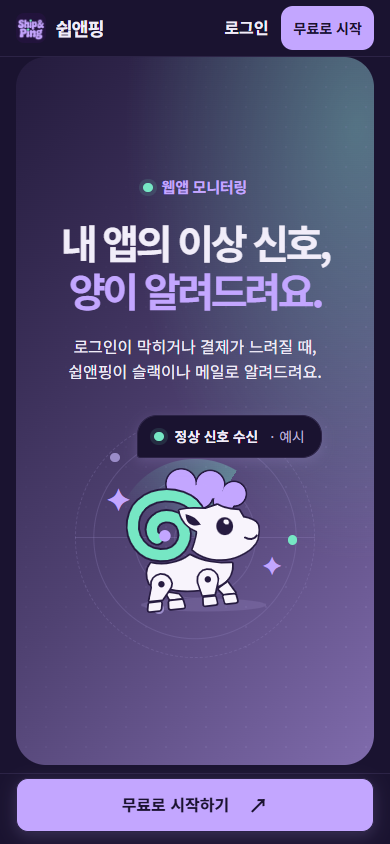
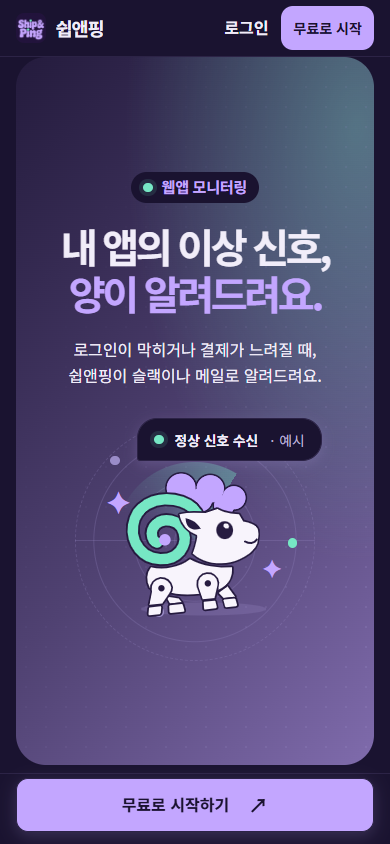
fix: T43 알림 예시 연결과 소개 페이지 가독성 개선

diff --git a/web/src/Landing.tsx b/web/src/Landing.tsx
@@ -15,6 +15,11 @@ const questions = [
 ];
 const signals = ["로그인에서 실패가 늘었어요", "결제가 느려졌어요", "업데이트 후 해결됐어요"];
 const channels = ["슬랙", "이메일"] as const;
+const paymentAlert = {
+  title: "결제가 느려졌어요",
+  metric: "평소 1.1초 → 최근 30분 3.4초",
+  sample: "결제 24건",
+};
 
 function StartLink({ className = "" }: { className?: string }) {
   return <Link to="/login" className={"lp-start " + className}>무료로 시작하기 <span aria-hidden="true">↗</span></Link>;
@@ -62,9 +67,13 @@ function Alerts() {
         aria-labelledby={"alert-tab-" + i} hidden={selected !== i} tabIndex={0} className="lp-message">
         <div className="lp-envelope">{i === 0 ? "# 모임모아-알림" : "받은 메일함"}</div>
         <div className="lp-sender"><Sheep/><span><strong>쉽앤핑</strong><small>모임모아 · 오후 6:00</small></span></div>
-        <div className="lp-excerpt"><h3>{i === 0 ? "결제가 느려졌어요" : "[쉽앤핑] 모임모아 · 결제가 느려졌어요"}</h3>
-          <p>평소 1.1초 → 최근 30분 3.4초</p><small>결제 24건을 살펴봤어요.</small></div>
-        <a href="#app-preview">쉽앤핑에서 보기 <span aria-hidden="true">↗</span></a>
+        <div className="lp-excerpt"><h3>{i === 1 && "[쉽앤핑] 모임모아 · "}{paymentAlert.title}</h3>
+          <p>{paymentAlert.metric}</p><small>{paymentAlert.sample}을 살펴봤어요.</small></div>
+        <details className="lp-alert-detail">
+          <summary>쉽앤핑에서 보기</summary>
+          <Hero title="모임모아 · 결제 문제 상세" mood="worried" showSheep={false}
+            badge={<StatusBadge state="open"/>} detail={paymentAlert.sample + " · " + paymentAlert.metric}/>
+        </details>
       </div>)}
     </div>
   </section>;

diff --git a/web/src/styles/landing.css b/web/src/styles/landing.css
@@ -77,6 +77,11 @@
   background: var(--sp-ok-ink);
   box-shadow: 0 0 0 4px var(--sp-ok-soft);
 }
+.lp .lp-hero .lp-kicker {
+  background: var(--sp-surface);
+  border-radius: var(--sp-radius-pill);
+  padding: .2rem .75rem;
+}
 .lp .lp-title {
   font-size: clamp(3rem, 5.55vw, 5rem);
   line-height: 1.18;
@@ -166,13 +171,15 @@
 .lp-sender small { display: block; }
 .lp-excerpt { border-left: 3px solid var(--sp-bad); padding-left: 1rem; }
 .lp-excerpt h3 { margin-bottom: .5rem; }
-.lp-message a { display: inline-flex; align-items: center; gap: .5rem; min-height: 44px; margin-top: .6rem; color: var(--sp-focus); font-weight: 700; }
+.lp-alert-detail { margin-top: .6rem; }
+.lp-alert-detail summary { width: fit-content; min-height: 44px; align-content: center; cursor: pointer; color: var(--sp-focus); font-weight: 700; }
 .lp-setup ol { padding: 0; margin: 2.5rem 0 0; display: grid; grid-template-columns: repeat(3, 1fr); gap: 1rem; list-style: none; }
 .lp-setup li { padding: 1.6rem; background: var(--sp-surface-2); border-radius: 20px; }
 .lp-setup li span { color: var(--sp-focus); font-weight: 800; font-variant-numeric: tabular-nums; }
 .lp-setup h3 { margin: 1.5rem 0 .5rem; font-size: 1.3rem; }
 .lp-setup li p, .lp-faq details p { color: var(--sp-ink-2); }
 .lp .answers { align-items: start; }
+.lp .answers .section-heading { display: grid; gap: .65rem; }
 .lp-faq details { border-bottom: 1px solid var(--sp-line); }
 .lp-faq summary { display: flex; justify-content: space-between; gap: 1rem; padding-block: 1.15rem; font-weight: 700; cursor: pointer; list-style: none; }
 .lp-faq summary::-webkit-details-marker { display: none; }

diff --git a/web/src/Landing.test.tsx b/web/src/Landing.test.tsx
@@ -35,9 +35,23 @@ it("알림 탭을 클릭하거나 방향키로 선택하면 초점과 패널이 
   }
 });
 
+it.each(["슬랙", "이메일"])("%s 알림에서 같은 결제 지연의 상세를 연다", channel => {
+  visit();
+  fireEvent.click(screen.getByRole("tab", {name:channel}));
+  const panel = within(screen.getByRole("tabpanel", {name:channel}));
+  expect(panel.getByRole("heading", {name:/결제가 느려졌어요/})).toBeTruthy();
+  const action = panel.getByText("쉽앤핑에서 보기");
+  fireEvent.click(action);
+  const detail = action.closest("details");
+  expect(detail?.open).toBe(true);
+  const content = within(detail!);
+  expect(content.getByRole("heading", {name:"모임모아 · 결제 문제 상세"})).toBeTruthy();
+  expect(content.getByText("결제 24건 · 평소 1.1초 → 최근 30분 3.4초")).toBeTruthy();
+});
+
 it("다섯 질문의 답을 각각 열고 다시 닫을 수 있다", () => {
   const {container} = visit();
-  const disclosures = container.querySelectorAll("details");
+  const disclosures = container.querySelectorAll<HTMLDetailsElement>(".lp-faq details");
   expect(disclosures).toHaveLength(5);
   for (const details of disclosures) {
     const summary = details.querySelector("summary")!;

diff --git a/docs/design/qa/landing-2026-11-27/README.md b/docs/design/qa/landing-2026-11-27/README.md
@@ -21,3 +21,9 @@ PC에서는 토스의 16px 바깥 여백, 40px 모서리, 80px 제목에 맞춰 
 첫 비교에서 휴대폰 상태 말풍선이 양 머리와 겹쳤다. 말풍선을 그림 위로 올리고 하단 버튼 뒤에는 전용 바탕을 두었다. 어두운 테마에서 설명 문장의 색을 기본 본문색으로 조정했다.
 
 Windows에서 웹 테스트 2,851개, 빌드와 린트를 통과했다. [브라우저 검사](capture.mjs)는 네 조건에서 고정 메뉴·휴대폰 CTA·탭 방향키·FAQ Enter·마키 일시정지·모션 감소·가로 넘침을 확인한다. axe의 WCAG 2 A·AA 및 2.1 A·AA 자동 검사 결과는 네 조건 모두 0건이었다. 키보드로 탭을 옮겼을 때 초점을 이전 탭에 남기는 변형은 테스트에서 검출했고, 복원한 뒤 다시 통과했다.
+
+## PR #40 검수 수정
+
+390px와 1440px에서 ‘웹앱 모니터링’ 글자를 잠시 숨겨 글자 영역의 모든 배경 픽셀과 글자색의 대비를 계산했다. 표면 토큰을 라벨 배경에 적용한 뒤 두 너비 모두 최소 대비는 밝은 테마 7.72:1, 어두운 테마 8.66:1이었다. 기존 투명 배경으로 되돌린 변형은 390px 어두운 테마에서 3.46:1로 실패했다.
+
+슬랙과 이메일의 ‘쉽앤핑에서 보기’는 해당 알림 아래에 결제 문제 상세를 펼친다. 결제 24건과 처리 시간 변화(평소 1.1초 → 최근 30분 3.4초)를 각 채널에서 확인했다. 문제 제목을 모임 신청 실패로 바꿨을 때 두 채널의 회귀 테스트가 모두 실패했다. 복원 후 웹 테스트 2,853개, 빌드·린트가 통과했다. Edge 네 조건에서 FAQ 라벨 하단과 제목 상단 사이의 간격, 키보드 상세 열기, 가로 넘침과 axe 자동 검사를 확인하고 위 캡처를 갱신했다.

diff --git a/docs/위임로그/김태형.md b/docs/위임로그/김태형.md
@@ -428,3 +428,4 @@
 | 목표 | 프롬프트 | 결과 | 검증 | 수정 | 배운 점 |
 |---|---|---|---|---|---|
 | 처음 방문한 사람이 웹앱 이상 알림을 이해하고 무료 베타를 시작한다. | [T43 지시문](../../prompts/tasks/T43.md) | 소개 페이지를 분리하고 양과 큰 문장, 고정 메뉴, 알림 사례 띠, 채널 탭, FAQ, 휴대폰 하단 버튼을 적용했다. [레퍼런스와 전후 비교](../design/qa/landing-2026-11-27/README.md) | Windows 웹 테스트 2,851개, 빌드·린트, Edge 네 조건에서 가로 넘침·모션 감소·접근성 자동 검사 통과. 탭 초점 변형은 실패했고 복원 후 통과했다. | 휴대폰에서 양의 머리와 겹친 말풍선을 올리고 고정 버튼에 전용 배경을 더했다. 어두운 배경의 설명 글자 대비를 높였다. | 실제 브라우저에서 탭 선택과 초점 이동을 따로 확인해야 키보드 사용자가 현재 패널을 계속 탐색할 수 있다. |
+| 소개 페이지 검수 지적 세 건을 고친다. | [T43-fix 지시문](../../prompts/tasks/T43-fix.md) | 양쪽 채널에서 결제 상세를 열고, FAQ 라벨을 제목 위에 배치했다. | [Edge 네 조건과 변형 검사](../design/qa/landing-2026-11-27/README.md), 웹 테스트 2,853개, 빌드·린트 통과. | 히어로 라벨에 표면 토큰을 적용해 390px 어두운 테마의 최소 대비를 8.66:1로 높였다. | 그라데이션 위 글자는 글자 영역 전체의 배경 픽셀을 검사해야 가장 낮은 대비를 찾을 수 있다. |

diff --git a/prompts/tasks/T43-fix.md b/prompts/tasks/T43-fix.md
@@ -1,0 +1,13 @@
+# 쉽앤핑 T43-fix — PR #40 검수 지적 고치기
+
+너는 Orca 작업 에이전트(Codex)다. 기존 브랜치 `design/T43-landing`(PR #40)에 이어서 커밋. **머지 금지.** Windows — 웹 테스트·빌드·캡처 로컬.
+명령은 경로를 그대로 하나씩(셸 변수·명령 치환·인터프리터 한 줄 실행 금지), 파일은 Read·Write(편집) 도구로. 먼저 `prompts/tasks/T43.md`.
+
+## 고칠 것 (다른 Codex 세션 검수)
+1. [중간] `web/src/styles/landing.css:69` — 390px 다크에서 '웹앱 모니터링' 라벨 오른쪽 대비 3.69:1 → 글자 4.5:1 이상(토큰 안에서).
+2. [중간] `web/src/Landing.tsx:67` — 결제 지연 알림 예시의 '쉽앤핑에서 보기'가 모임 신청 실패 예시를 연다 → 각 알림 예시가 자기 내용을 열게. 회귀 테스트.
+3. [낮음] 자주 묻는 질문의 라벨과 제목이 한 줄에 붙어 보임 → 라벨을 위 줄 작은 글씨로 분리하거나 간격 정리.
+변형 검사, 390·1440 밝은·어두운 캡처 갱신.
+
+## 마무리
+비밀값 검사 후 push, `gh pr checks 40` 통과, PR 본문 갱신. 머지 금지. **끝나면 반드시 worker_done**.
